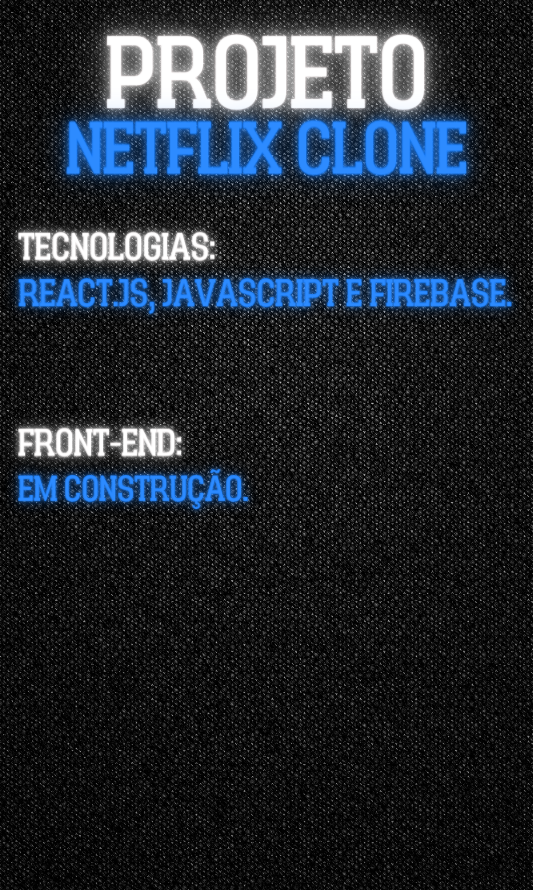
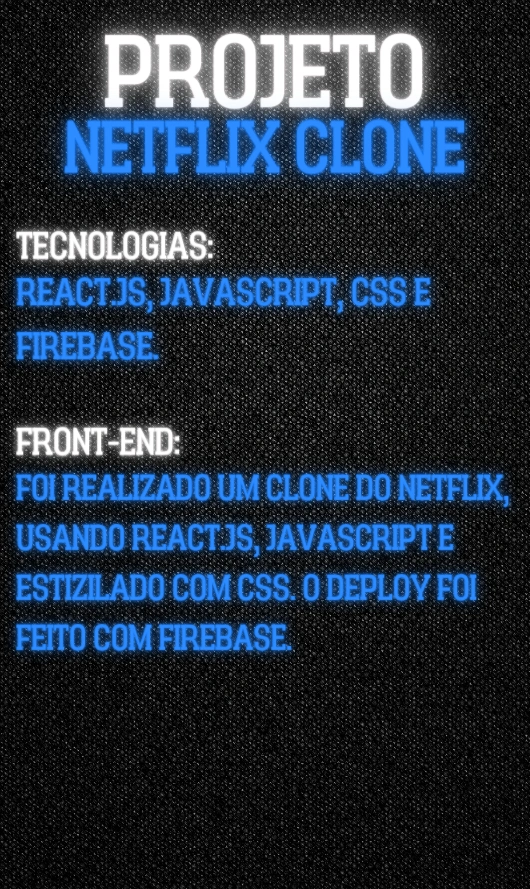
Adicionado projeto netflix-clone

diff --git a/projects.html b/projects.html
@@ -22,11 +22,14 @@
           alt="projeto car shop"
         />
       </a>
-      <img
-        class="netflix-clone"
-        src="Img/netflixCone.webp"
-        alt="projeto netflix clone"
-      />
+
+      <a href="https://netflix-clone-c47aa.firebaseapp.com/">
+        <img
+          class="netflix-clone"
+          src="Img/netflixCone.webp"
+          alt="projeto netflix clone"
+        />
+      </a>
     </section>
   </body>
 </html>
